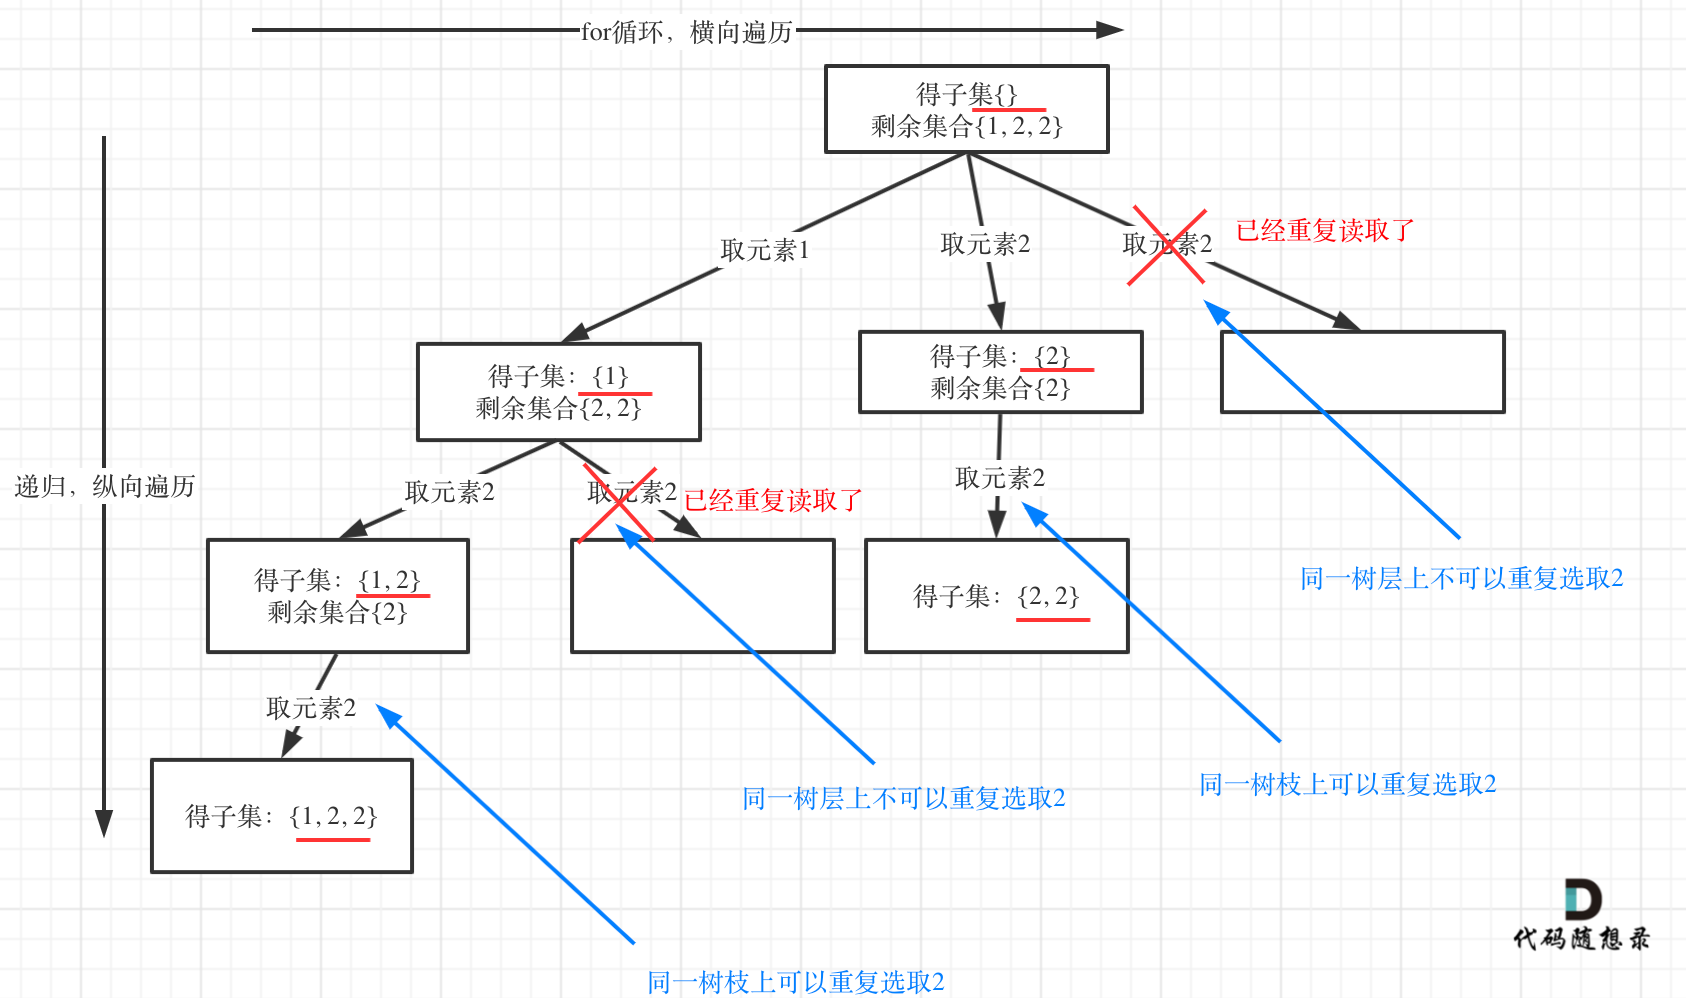
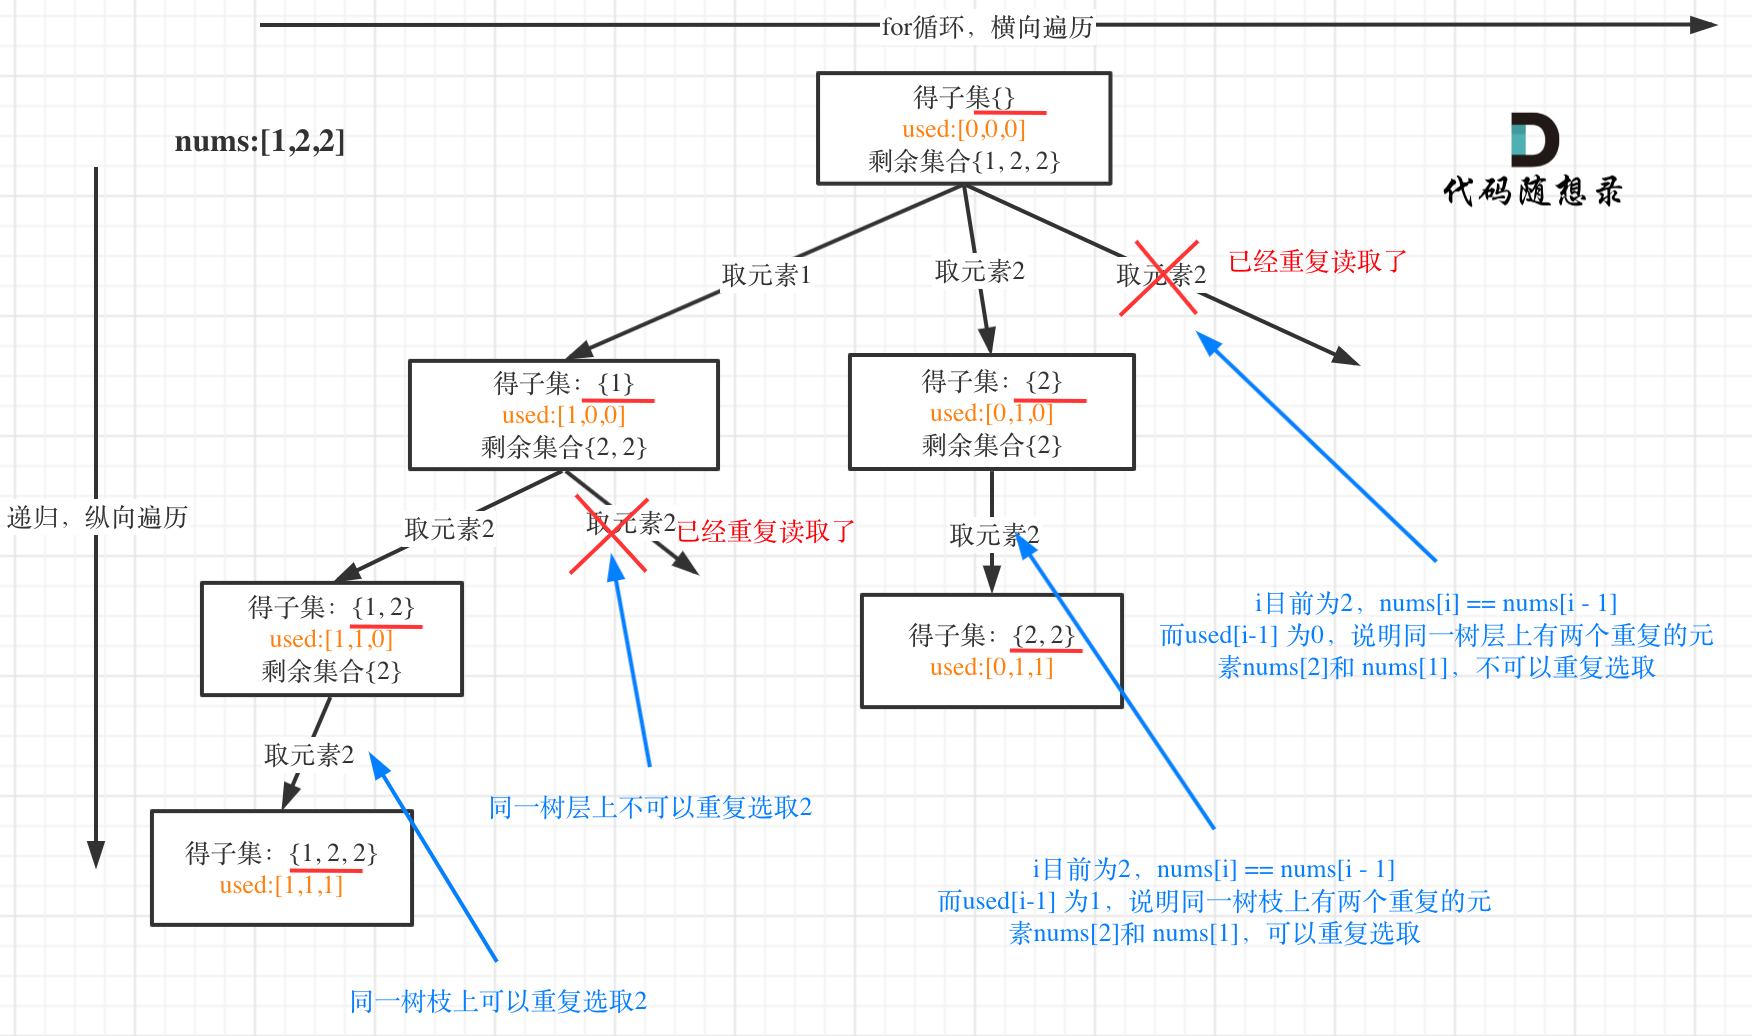
Update

diff --git a/problems/0090.子集II.md b/problems/0090.子集II.md
@@ -1,13 +1,15 @@
-# 题目地址 
-https://leetcode-cn.com/problems/subsets-ii/
 
-# 第90题. 子集II
+> 子集问题加去重！
+
+# 第90题.子集II
+
+题目链接：https://leetcode-cn.com/problems/subsets-ii/
 
 给定一个可能包含重复元素的整数数组 nums，返回该数组所有可能的子集（幂集）。
 
 说明：解集不能包含重复的子集。
 
-示例:   
+示例:    
 输入: [1,2,2]  
 输出:  
 [  
@@ -22,56 +24,65 @@ https://leetcode-cn.com/problems/subsets-ii/
 
 # 思路 
 
-这道题目和[0078.子集](https://github.com/youngyangyang04/leetcode/blob/master/problems/0078.子集.md)区别就是集合里有重复元素了，而且求取的子集要去重。
+做本题之前一定要先做[78.子集](https://mp.weixin.qq.com/s/NNRzX-vJ_pjK4qxohd_LtA)。
 
-很多同学在去重上想不明白，其实很多题解也没有讲清楚，反正代码是能过的，感觉是那么回事，稀里糊涂的先把题目过了。
+这道题目和[回溯算法：求子集问题！](https://mp.weixin.qq.com/s/NNRzX-vJ_pjK4qxohd_LtA)区别就是集合里有重复元素了，而且求取的子集要去重。
 
-这个去重为什么很难理解呢，**所谓去重，其实就是使用过的元素不能重复选取。** 这么一说好像很简单！
+那么关于回溯算法中的去重问题，**在[40.组合总和II](https://mp.weixin.qq.com/s/_1zPYk70NvHsdY8UWVGXmQ)中已经详细讲解过了，和本题是一个套路**。
 
-都知道组合问题可以抽象为树形结构，那么“使用过”在这个树形结构上是有两个维度的，一个维度是同一树枝上使用过，一个维度是同一树层上使用过。**没有理解这两个层面上的“使用过” 是造成大家没有彻底理解去重的根本原因。**
+**剧透一下，后期要讲解的排列问题里去重也是这个套路，所以理解“树层去重”和“树枝去重”非常重要**。
 
-所以要明确我们要去重的是同一树层上的“使用过”。
-
-**还要强调的是去重一定要对元素经行排序，这样我们才方便通过相邻的节点来判断是否重复使用了。**
-
-用示例中的[1, 2, 2] 来举例，如图所示：
+用示例中的[1, 2, 2] 来举例，如图所示： （**注意去重需要先对集合排序**）
 
 <img src='../pics/90.子集II.png' width=600> </img></div>
 
-从图中可以看出，同一树层上对重复取2 就要过滤掉，同一树枝上就可以重复取2，因为同一树枝上元素的集合才是唯一子集！
+从图中可以看出，同一树层上重复取2 就要过滤掉，同一树枝上就可以重复取2，因为同一树枝上元素的集合才是唯一子集！
 
-代码如下：（已经详细注释）
+本题就是其实就是[回溯算法：求子集问题！](https://mp.weixin.qq.com/s/NNRzX-vJ_pjK4qxohd_LtA)的基础上加上了去重，去重我们在[回溯算法：求组合总和（三）](https://mp.weixin.qq.com/s/_1zPYk70NvHsdY8UWVGXmQ)也讲过了，所以我就直接给出代码了：
 
 # C++代码
 
 ```
 class Solution {
 private:
-    void backtracking(vector<int>& nums, vector<vector<int>>& result, vector<int>& vec, int startIndex,  vector<bool>& used) {
-        result.push_back(vec);
+    vector<vector<int>> result;
+    vector<int> path;
+    void backtracking(vector<int>& nums, int startIndex, vector<bool>& used) {
+        result.push_back(path);
         for (int i = startIndex; i < nums.size(); i++) {
-            // used[i - 1] == true，说明同一树支candidates[i - 1]使用过 
+            // used[i - 1] == true，说明同一树支candidates[i - 1]使用过
             // used[i - 1] == false，说明同一树层candidates[i - 1]使用过
             // 而我们要对同一树层使用过的元素进行跳过
-            if (i > 0 && nums[i] == nums[i - 1] && used[i - 1] == false) { 
+            if (i > 0 && nums[i] == nums[i - 1] && used[i - 1] == false) {
                 continue;
             }
-            vec.push_back(nums[i]);
+            path.push_back(nums[i]);
             used[i] = true;
-            backtracking(nums, result, vec, i + 1, used);
+            backtracking(nums, i + 1, used);
             used[i] = false;
-            vec.pop_back();
+            path.pop_back();
         }
     }
 
 public:
     vector<vector<int>> subsetsWithDup(vector<int>& nums) {
+        result.clear();
+        path.clear();
         vector<bool> used(nums.size(), false);
-        vector<vector<int>> result;
-        vector<int> vec;
-        sort(nums.begin(), nums.end());
-        backtracking(nums, result, vec, 0, used);
+        sort(nums.begin(), nums.end()); // 去重需要排序
+        backtracking(nums, 0, used);
         return result;
     }
 };
+
 ```
+
+# 总结 
+
+其实这道题目的知识点，我们之前都讲过了，如果之前讲过的子集问题和去重问题都掌握的好，这道题目应该分分钟AC。
+
+**就酱，如果感觉融会贯通了，就把「代码随想录」介绍给自己的同学朋友吧，也许他们也需要！**
+
+> 我是[程序员Carl](https://github.com/youngyangyang04)，组队刷题可以找我，本文[leetcode刷题攻略](https://github.com/youngyangyang04/leetcode-master)已收录，更多[精彩算法文章](https://mp.weixin.qq.com/mp/appmsgalbum?__biz=MzUxNjY5NTYxNA==&action=getalbum&album_id=1485825793120387074&scene=173#wechat_redirect)尽在：[代码随想录](https://img-blog.csdnimg.cn/20200815195519696.png)，期待你的关注！
+
+

diff --git a/problems/0122.买卖股票的最佳时机II.md b/problems/0122.买卖股票的最佳时机II.md
@@ -1,0 +1,34 @@
+## 链接
+https://leetcode-cn.com/problems/best-time-to-buy-and-sell-stock-ii/
+
+## 思路 
+
+首先要知道第0天买入，第3天卖出的利润：prices[3] - prices[0]，相当于(prices[3] - prices[2]) + (prices[2] - prices[1]) + ()prices[1] - prices[0])
+
+那么根据prices可以得到每天的利润序列：(prices[i] - prices[i - 1]).....(prices[1] - prices[0])。
+
+可以发现，我们需要收集每天的正利润就可以，收集正利润的区间，就是股票买卖的区间，而我们只需要关注最终利润就可以了，不需要记录区间。
+
+**这就是贪心所贪的地方，只收集正利润**。
+
+如图：
+
+<img src='../pics/122.买卖股票的最佳时机II.png' width=600> </img></div>
+
+对应C++代码如下：
+
+```
+class Solution {
+public:
+    int maxProfit(vector<int>& prices) {
+        int result = 0;
+        for (int i = 1; i < prices.size(); i++) {
+            result += max(prices[i] - prices[i - 1], 0);
+        }
+        return result;
+    }
+};
+```
+
+> 我是[程序员Carl](https://github.com/youngyangyang04)，组队刷题可以找我，本文[leetcode刷题攻略](https://github.com/youngyangyang04/leetcode-master)已收录，更多[精彩算法文章](https://mp.weixin.qq.com/mp/appmsgalbum?__biz=MzUxNjY5NTYxNA==&action=getalbum&album_id=1485825793120387074&scene=173#wechat_redirect)尽在：[代码随想录](https://img-blog.csdnimg.cn/20200815195519696.png)，期待你的关注！
+

diff --git a/README.md b/README.md
@@ -340,6 +340,7 @@
 |[0113.路径总和II](https://github.com/youngyangyang04/leetcode/blob/master/problems/0113.路径总和II.md) |二叉树树 |简单|**深度优先搜索/递归** **回溯** **栈**|
 |[0116.填充每个节点的下一个右侧节点指针](https://github.com/youngyangyang04/leetcode/blob/master/problems/0116.填充每个节点的下一个右侧节点指针.md) |二叉树 |中等|**递归** **迭代/广度优先搜索**|
 |[0117.填充每个节点的下一个右侧节点指针II](https://github.com/youngyangyang04/leetcode/blob/master/problems/0117.填充每个节点的下一个右侧节点指针II.md) |二叉树 |中等|**递归** **迭代/广度优先搜索**|
+|[0122.买卖股票的最佳时机II](https://github.com/youngyangyang04/leetcode/blob/master/problems/0122.买卖股票的最佳时机II.md) |贪心 |简单|**贪心** |
 |[0127.单词接龙](https://github.com/youngyangyang04/leetcode/blob/master/problems/ 0127.单词接龙.md) |广度优先搜索 |中等|**广度优先搜索**|
 |[0129.求根到叶子节点数字之和](https://github.com/youngyangyang04/leetcode/blob/master/problems/0129.求根到叶子节点数字之和.md) |二叉树 |中等|**递归/回溯** 递归里隐藏着回溯，和113.路径总和II类似|
 |[0131.分割回文串](https://github.com/youngyangyang04/leetcode/blob/master/problems/0131.分割回文串.md) |回溯 |中等|**回溯**|
